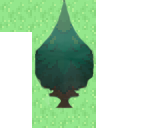
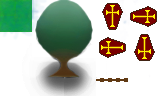
[0.4] Wrote base for #7 (need to implement saving and loading specific instances). #24 is almost done.

diff --git a/src/me/nrubin29/rpg/data/DataFile.java b/src/me/nrubin29/rpg/data/DataFile.java
@@ -5,23 +5,50 @@ import java.io.BufferedWriter;
 import java.io.File;
 import java.io.FileReader;
 import java.io.FileWriter;
+import java.util.ArrayList;
 import java.util.HashMap;
 import java.util.Map.Entry;
 
 import javax.swing.filechooser.FileSystemView;
 
+import me.nrubin29.rpg.Main;
 import me.nrubin29.rpg.util.Constants;
 
 public class DataFile {
 
 	private final String fileName;
-	private final HashMap<String, Object> contents = new HashMap<String, Object>();
+	private final HashMap<String, String> contents = new HashMap<String, String>();
 	
 	public DataFile(String fileName) {
 		this.fileName = fileName;
 		
 		try {
-			File file = getFile(fileName + ".config");
+			File file = getFile(fileName + ".config", false);
+			
+			if (!file.exists()) {
+				file.createNewFile();
+				
+				File template = new File(Main.class.getClassLoader().getResource("res/files/" + fileName + ".config").toURI());
+				
+				ArrayList<String> lines = new ArrayList<String>();
+				
+				BufferedReader reader = new BufferedReader(new FileReader(template));
+				
+				while (reader.ready()) {
+					lines.add(reader.readLine());
+				}
+				
+				reader.close();
+				
+				BufferedWriter writer = new BufferedWriter(new FileWriter(file));
+				
+				for (String line : lines) {
+					writer.write(line);
+					writer.newLine();
+				}
+				
+				writer.close();
+			}
 			
 			BufferedReader reader = new BufferedReader(new FileReader(file));
 			
@@ -35,13 +62,13 @@ public class DataFile {
 		catch (Exception ignored) { }
 	}
 	
-	public void save() {
+	public final void save() {
 		try {
-			File file = getFile(fileName + ".config");
+			File file = getFile(fileName + ".config", false);
 			
 			BufferedWriter writer = new BufferedWriter(new FileWriter(file));
 			
-			for (Entry<String, Object> entry : contents.entrySet()) {
+			for (Entry<String, String> entry : contents.entrySet()) {
 				writer.write(entry.getKey() + ": " + entry.getValue());
 				writer.newLine();
 			}
@@ -51,13 +78,12 @@ public class DataFile {
 		catch (Exception ignored) { }
 	}
 	
-	@SuppressWarnings("unchecked")
-	public final <E> E getValue(String key) {
-		return (E) contents.get(key);
+	public final String getValue(String key) {
+		return contents.get(key);
 	}
 	
 	public final void set(String key, Object value) {
-		contents.put(key, value);
+		contents.put(key, String.valueOf(value));
 	}
 	
 	public final void set(String key, Object value, Object update) {
@@ -65,7 +91,7 @@ public class DataFile {
 		update = value;
 	}
 	
-	private File getFile(String name) {
+	private final File getFile(String name, boolean createIfNotExists) {
 		String homedir = FileSystemView.getFileSystemView().getHomeDirectory().getAbsolutePath();
 		String osname = System.getProperty("os.name").toLowerCase();
 		File rootFolder;
@@ -87,7 +113,7 @@ public class DataFile {
 		
 		File f = new File(rootFolder, name);
 		
-		if (!f.exists()) {
+		if (!f.exists() && createIfNotExists) {
 			boolean s = false;
 		    	
 		    try { s = f.createNewFile(); }

diff --git a/src/me/nrubin29/rpg/tile/Tile.java b/src/me/nrubin29/rpg/tile/Tile.java
@@ -11,25 +11,22 @@ public enum Tile implements Image {
 
 	EMPTY,
 	
-	GRASS("environment", "G", 0, 0),
-	TREE_TALL_TOP_LEFT("environment", "TTTL", 1, 0, true),
-	TREE_TALL_TOP_RIGHT("environment", "TTTR", 2, 0, true),
+	GRASS("environment", "G", 1, 1),
+	TREE_TALL_TOP_LEFT("environment", "TTTL", 2, 1, true),
+	TREE_TALL_TOP_RIGHT("environment", "TTTR", 3, 1, true),
 	
-	TREE_TALL_MIDDLE_TOP_LEFT("environment", "TTMTL", 1, 1, true),
-	TREE_TALL_MIDDLE_TOP_RIGHT("environment", "TTMTR", 2, 1, true),
+	TREE_TALL_MIDDLE_LEFT("environment", "TTML", 2, 2, true),
+	TREE_TALL_MIDDLE_RIGHT("environment", "TTMR", 3, 2, true),
 	
-	TREE_TALL_MIDDLE_BOTTOM_LEFT("environment", "TTMBL", 1, 2, true),
-	TREE_TALL_MIDDLE_BOTTOM_RIGHT("environment", "TTMBR", 2, 2, true),
-	
-	TREE_TALL_BOTTOM_LEFT("environment", "TTBL", 1, 3, true),
-	TREE_TALL_BOTTOM_RIGHT("environment", "TTBR", 2, 3, true),
+	TREE_TALL_BOTTOM_LEFT("environment", "TTBL", 2, 3, true),
+	TREE_TALL_BOTTOM_RIGHT("environment", "TTBR", 3, 3, true),
 	
 	/* */
 	
-	COFFIN_DOWN("coffin", "CD", 0, 0, true),
-	COFFIN_LEFT("coffin", "CL", 1, 0, true),
-	COFFIN_RIGHT("coffin", "CR", 0, 1, true),
-	COFFIN_UP("coffin", "CU", 1, 1, true);
+	COFFIN_DOWN("environment", "CD", 4, 1, true),
+	COFFIN_LEFT("environment", "CL", 5, 1, true),
+	COFFIN_RIGHT("environment", "CR", 4, 2, true),
+	COFFIN_UP("environment", "CU", 5, 2, true);
 	
 	private String id;
 	private ImageIcon image;
@@ -37,7 +34,7 @@ public enum Tile implements Image {
 	
 	Tile(String tilesheet, String id, int x, int y, boolean isSolid) {
 		this.id = id;
-		this.image = TilesheetManager.getInstance().getTilesheet(tilesheet).getTile(new Point(x, y));
+		this.image = TilesheetManager.getInstance().getTilesheet(tilesheet).getTile(new Point(x - 1, y - 1));
 		this.isSolid = isSolid;
 	}
 	

diff --git a/src/me/nrubin29/rpg/keycommands/commands/BindKeys.java b/src/me/nrubin29/rpg/keycommands/commands/BindKeys.java
@@ -32,15 +32,17 @@ public class BindKeys extends KeyCommand {
 		for (final String key : strs) {
 			JPanel line = new JPanel();
 			
-			JLabel label = new JLabel(key.toLowerCase().substring(0, key.length() - 2));
+			JLabel label = new JLabel(key.toLowerCase().substring(0, key.length() - 2) + ":");
 			label.setFont(FontUtil.getFont(15));
 			label.setForeground(Constants.FOREGROUND_COLOR_ON_BACKGROUND);
 			
-			final JTextField set = new JTextField(KeyStroke.getKeyStroke(Integer.parseInt(keys.<String>getValue(key)), 0).getKeyChar());
+			final JTextField set = new JTextField(String.valueOf(KeyStroke.getKeyStroke(Integer.parseInt(keys.getValue(key)), 0)), 15);
+			set.setEditable(false);
+			
 			set.addKeyListener(new KeyAdapter() {
 						public void keyPressed(KeyEvent e) {
-							set.setText(e.getKeyChar() + "");
 							keys.set(key, KeyStroke.getKeyStroke(e.getKeyChar()).getKeyCode());
+							set.setText(KeyStroke.getKeyStrokeForEvent(e).toString());
 						}
 					});
 			

diff --git a/src/me/nrubin29/rpg/gui/AchievementPopup.java b/src/me/nrubin29/rpg/gui/AchievementPopup.java
@@ -7,8 +7,9 @@ import javax.swing.BoxLayout;
 import javax.swing.JLabel;
 
 import me.nrubin29.rpg.Main;
+import me.nrubin29.rpg.data.DataManager;
+import me.nrubin29.rpg.data.files.Player;
 import me.nrubin29.rpg.misc.Achievement;
-import me.nrubin29.rpg.misc.PlayerData;
 import me.nrubin29.rpg.util.Constants;
 import me.nrubin29.rpg.util.FontUtil;
 import me.nrubin29.rpg.util.TimerUtil;
@@ -37,7 +38,7 @@ public class AchievementPopup extends TranslucentPanel {
 		setLayout(new BoxLayout(this, BoxLayout.Y_AXIS));
 		setBounds(new Rectangle(Constants.PANEL_DIMENSION.width - (Constants.ACHIEVEMENT_POPUP_DIMENSION.width) - Constants.TILE_DIM, Constants.TILE_DIM, Constants.ACHIEVEMENT_POPUP_DIMENSION.width, Constants.ACHIEVEMENT_POPUP_DIMENSION.height));
 		
-		PlayerData.getInstance().addAchievement(ach);
+		DataManager.getInstance().<Player>getConfigurationFile(Player.class).addAchievement(ach);
 		
 		TimerUtil.runTimer(5 * 1000, new Runnable() {
 			public void run() {

diff --git a/src/me/nrubin29/rpg/Main.java b/src/me/nrubin29/rpg/Main.java
@@ -1,5 +1,7 @@
 package me.nrubin29.rpg;
 
+import java.awt.event.KeyAdapter;
+import java.awt.event.KeyEvent;
 import java.lang.Thread.UncaughtExceptionHandler;
 
 import javax.swing.Box;
@@ -33,6 +35,7 @@ public class Main {
 					frame.setVisible(false);
 					frame.dispose();
 				}
+				
 				new ErrorGUI(e);
 			}
     	});
@@ -50,6 +53,12 @@ public class Main {
         frame.setDefaultCloseOperation(JFrame.EXIT_ON_CLOSE);
         frame.setResizable(false);
         frame.setLocationRelativeTo(null);
+        
+        frame.addKeyListener(new KeyAdapter() {
+        	public void keyPressed(KeyEvent e) {
+        		System.out.println("Key Event " + e.getKeyChar() + " | " + e.getKeyCode());
+        	}
+        });
         
         gui = new GUI();
         sb = new StatusBar();

diff --git a/src/me/nrubin29/rpg/data/files/Keys.java b/src/me/nrubin29/rpg/data/files/Keys.java
@@ -9,14 +9,11 @@ public class Keys extends DataFile {
 	public Keys() {
 		super("keys");
 		
-		this.upID = Integer.parseInt(this.<String>getValue("upID"));
-		this.downID = Integer.parseInt(this.<String>getValue("downID"));
-		this.leftID = Integer.parseInt(this.<String>getValue("leftID"));
-		this.rightID = Integer.parseInt(this.<String>getValue("rightID"));
-		this.interactID = Integer.parseInt(this.<String>getValue("interactID"));
-		
-		set("upID", 10, upID);
-		save();
+		this.upID = Integer.parseInt(getValue("upID"));
+		this.downID = Integer.parseInt(getValue("downID"));
+		this.leftID = Integer.parseInt(getValue("leftID"));
+		this.rightID = Integer.parseInt(getValue("rightID"));
+		this.interactID = Integer.parseInt(getValue("interactID"));
 	}
 	
 	@Override

diff --git a/src/me/nrubin29/rpg/keycommands/commands/Interact.java b/src/me/nrubin29/rpg/keycommands/commands/Interact.java
@@ -1,9 +1,10 @@
 package me.nrubin29.rpg.keycommands.commands;
 
 import java.awt.Point;
-import java.awt.event.KeyEvent;
 
 import me.nrubin29.rpg.Main;
+import me.nrubin29.rpg.data.DataManager;
+import me.nrubin29.rpg.data.files.Keys;
 import me.nrubin29.rpg.events.Event.EventType;
 import me.nrubin29.rpg.events.EventManager;
 import me.nrubin29.rpg.gui.GUI;
@@ -12,7 +13,7 @@ import me.nrubin29.rpg.util.MapTileUtil.Direction;
 
 public class Interact extends KeyCommand {
 
-	public Interact() { super(KeyEvent.VK_ENTER, false, false, false); }
+	public Interact() { super(Integer.parseInt(DataManager.getInstance().getConfigurationFile(Keys.class).getValue("interactID")), false, false, false); }
 	
 	public void run() {
 		GUI gui = Main.getGUI();

diff --git a/src/me/nrubin29/rpg/map/maps/SampleCity.java b/src/me/nrubin29/rpg/map/maps/SampleCity.java
@@ -9,10 +9,12 @@ public class SampleCity extends Map {
 	
 	public SampleCity() {
 		super(Maps.SAMPLE_CITY, MapType.CITY, "Sample City", Music.TEST,
-				"TTTL  TTTR  E CD E E E E E E E E E E E E E E E E",
-				"TTMTL TTMTR E CL E E E E E E E E E E E E E E E E",
-				"TTMBL TTMBR E CR E E E E E E E E E E E E E E E E",
-				"TTBL  TTBR  E CD E E E E E E E E E E E E E E E E",
+				"TTTL TTTR E CD E E E E E E E E E E E E E E E E",
+				"TTML TTMR E CL E E E E E E E E E E E E E E E E",
+				"TTBL TTBR E CR E E E E E E E E E E E E E E E E",
+				"E    E    E CU E E E E E E E E E E E E E E E E",
+				
+				Map.EMPTY_ROW,
 				Map.EMPTY_ROW,
 				Map.EMPTY_ROW,
 				Map.EMPTY_ROW,

diff --git a/src/me/nrubin29/rpg/data/files/Player.java b/src/me/nrubin29/rpg/data/files/Player.java
@@ -1,19 +1,15 @@
-package me.nrubin29.rpg.misc;
+package me.nrubin29.rpg.data.files;
 
 import java.util.ArrayList;
 
+import me.nrubin29.rpg.data.DataFile;
+import me.nrubin29.rpg.misc.Achievement;
 import me.nrubin29.rpg.util.Constants;
 
-public class PlayerData {
+public class Player extends DataFile {
+	
+	public Player() { super("playerdata"); }
 
-    private PlayerData() { }
-
-    private static PlayerData instance = new PlayerData();
-
-    public static PlayerData getInstance() {
-        return instance;
-    }
-    
     private int health = Constants.MAX_HEALTH, food = Constants.MAX_FOOD;
     
     public int getHealth() {

diff --git a/src/me/nrubin29/rpg/keycommands/commands/Right.java b/src/me/nrubin29/rpg/keycommands/commands/Right.java
@@ -3,11 +3,13 @@ package me.nrubin29.rpg.keycommands.commands;
 import java.awt.event.KeyEvent;
 
 import me.nrubin29.rpg.Main;
+import me.nrubin29.rpg.data.DataManager;
+import me.nrubin29.rpg.data.files.Keys;
 import me.nrubin29.rpg.keycommands.KeyCommand;
 
 public class Right extends KeyCommand {
 
-	public Right() { super(KeyEvent.VK_RIGHT, false, false, false); }
+	public Right() { super(Integer.parseInt(DataManager.getInstance().getConfigurationFile(Keys.class).getValue("rightID")), false, false, false); }
 	
 	public void run() {
 		Main.getGUI().movement(KeyEvent.VK_RIGHT);

diff --git a/src/me/nrubin29/rpg/keycommands/commands/Down.java b/src/me/nrubin29/rpg/keycommands/commands/Down.java
@@ -3,11 +3,13 @@ package me.nrubin29.rpg.keycommands.commands;
 import java.awt.event.KeyEvent;
 
 import me.nrubin29.rpg.Main;
+import me.nrubin29.rpg.data.DataManager;
+import me.nrubin29.rpg.data.files.Keys;
 import me.nrubin29.rpg.keycommands.KeyCommand;
 
 public class Down extends KeyCommand {
 
-	public Down() { super(KeyEvent.VK_DOWN, false, false, false); }
+	public Down() { super(Integer.parseInt(DataManager.getInstance().getConfigurationFile(Keys.class).getValue("downID")), false, false, false); }
 	
 	public void run() {
 		Main.getGUI().movement(KeyEvent.VK_DOWN);

diff --git a/src/me/nrubin29/rpg/keycommands/commands/Left.java b/src/me/nrubin29/rpg/keycommands/commands/Left.java
@@ -3,11 +3,13 @@ package me.nrubin29.rpg.keycommands.commands;
 import java.awt.event.KeyEvent;
 
 import me.nrubin29.rpg.Main;
+import me.nrubin29.rpg.data.DataManager;
+import me.nrubin29.rpg.data.files.Keys;
 import me.nrubin29.rpg.keycommands.KeyCommand;
 
 public class Left extends KeyCommand {
 
-	public Left() { super(KeyEvent.VK_LEFT, false, false, false); }
+	public Left() { super(Integer.parseInt(DataManager.getInstance().getConfigurationFile(Keys.class).getValue("leftID")), false, false, false); }
 	
 	public void run() {
 		Main.getGUI().movement(KeyEvent.VK_LEFT);
